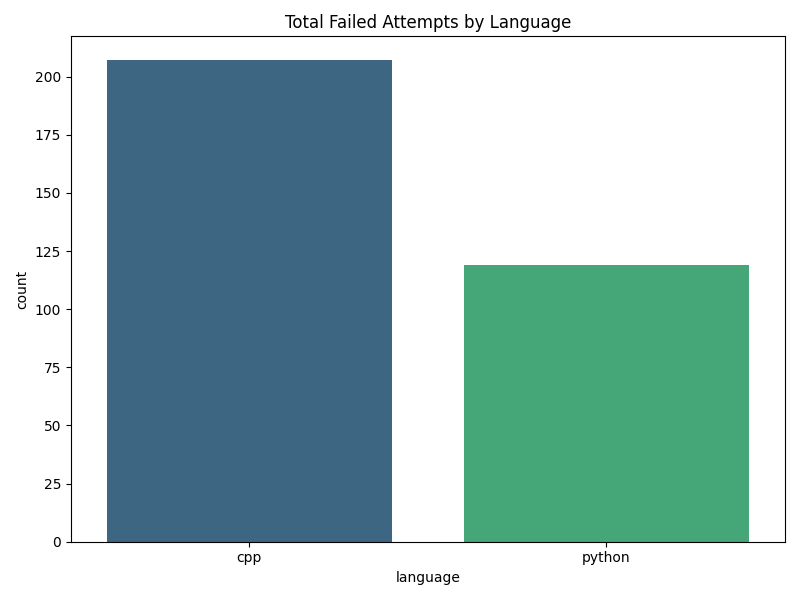
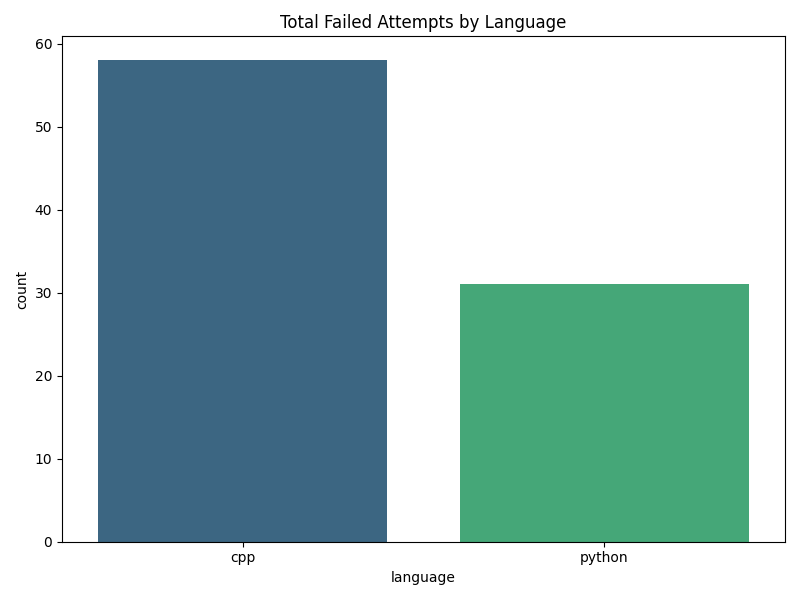
updated attemps_df duplicates and refactored graphs

diff --git a/generated_code/unittest_run_all.py b/generated_code/unittest_run_all.py
@@ -647,65 +647,57 @@ def merge_test_results(python_results_source: str, cpp_results_source) -> int:
     return merged_results
 
 def generate_attempts_dataframe(merged_results: list) -> pd.DataFrame:
-    """
-    Generates a dataframe where each row is a specific attempt at a problem.
-    """
     attempt_rows = []
 
     for problem in merged_results:
         for language in ["python", "cpp"]:
             lang_data = problem.get(language, {})
+            # Ensure we are looking at a sorted list of attempts
+            attempts = sorted(lang_data.get("attempts", []), key=lambda x: x.get("attempt_number", 0))
             
-            # Use .get() to handle cases where a language key might be missing
-            for attempt in lang_data.get("attempts", []):
+            for attempt in attempts:
                 attempt_rows.append({
                     "id": problem["id"],
                     "language": language,
                     "difficulty": problem["difficulty"],
                     "examples_count": problem["examples_count"],
                     "constraints_count": problem["constraints_count"],
-                    "loc": attempt.get("loc", 0), # Added newest data
-                    "tags": problem["tags"],
-                    
+                    # Keep tags as a list or join to a string, DO NOT EXPLODE YET
+                    "tags": problem["tags"], 
                     "attempt_number": attempt["attempt_number"],
                     "result": attempt["result"],
                     "error_type": attempt["error_type"],
-                    "passed_tests": attempt.get("passed_tests", 0) # Added newest data
+                    "passed_tests": attempt.get("passed_tests", 0),
+                    "loc": attempt.get("loc", 0)
                 })
 
+    # No .explode() here!
     attempt_df = pd.DataFrame(attempt_rows)
-    
-    if not attempt_df.empty:
-        attempt_df = attempt_df.explode("tags")
-    
     attempt_df.attrs['name'] = 'Leetcode Attempts Results'
     return attempt_df
 
 def generate_problem_dataframe(merged_results: list) -> pd.DataFrame:
-    """
-    Generates a dataframe where each row is a summary of a problem (by language).
-    """
     problem_rows = []
 
     for problem in merged_results:
         for language in ["python", "cpp"]:
             lang_data = problem.get(language, {})
-            attempts = lang_data.get("attempts", [])
+            attempts = sorted(lang_data.get("attempts", []), key=lambda x: x.get("attempt_number", 0))
 
+            # Integrity Check
             passed_count_from_list = sum(1 for a in attempts if a.get("result") == "pass")
-            stored_passed_count = lang_data.get("passed_attempts")
+            stored_passed_count = lang_data.get("passed_attempts", 0)
 
             if passed_count_from_list != stored_passed_count:
-                print(f"CRITICAL: Integrity Mismatch on Problem {problem['id']}. "
-                    f"List says {passed_count_from_list}, but summary says {stored_passed_count}")
+                print(f"Warning: Integrity Mismatch on ID {problem['id']} ({language}). "
+                      f"Calculated: {passed_count_from_list}, Stored: {stored_passed_count}")
 
-            # Logic for success calculation
-            eventually_passed = lang_data.get("passed_attempts", 0) > 0
-            
+            # Define First Try Success: Must exist, be attempt 1, and pass
             first_try_success = False
             if attempts:
-                # Assuming attempts are ordered or you want the status of the first one
-                first_try_success = (attempts[0]["result"] == "pass")
+                first_attempt = attempts[0]
+                if first_attempt.get("attempt_number") == 1 and first_attempt.get("result") == "pass":
+                    first_try_success = True
 
             problem_rows.append({
                 "id": problem["id"],
@@ -713,34 +705,59 @@ def generate_problem_dataframe(merged_results: list) -> pd.DataFrame:
                 "difficulty": problem["difficulty"],
                 "examples_count": problem["examples_count"],
                 "constraints_count": problem["constraints_count"],
-                "tags": problem["tags"],
-
-                "eventually_passed": eventually_passed,
+                "tags": problem["tags"], # Keep as list
+                "eventually_passed": stored_passed_count > 0,
                 "first_try_success": first_try_success,
-
-                # Included the newest summary data fields
                 "total_attempts": lang_data.get("total_attempts", 0),
-                "passed_attempts": lang_data.get("passed_attempts", 0),
+                "passed_attempts": stored_passed_count,
                 "failed_attempts": lang_data.get("failed_attempts", 0),
                 "total_tests": lang_data.get("total_tests", 0)
             })
 
     problems_df = pd.DataFrame(problem_rows)
-    
-    if not problems_df.empty:
-        problems_df = problems_df.explode("tags")
-    
     problems_df.attrs['name'] = 'Leetcode Problems Results'
     return problems_df
 
-def generate_summary_report(result_file_path_cpp: str, result_file_path_py: str):
+def generate_comparison_summary(attempt_df: pd.DataFrame, problems_df: pd.DataFrame, output_file="summary_comparison.csv"): 
     """
-    Generates a summary report for both C++ and Python unit tests.
+    Creates a summary table to audit data quality and performance metrics.
+    """
+    # 1. Clean the data for the audit (Remove suspected duplicates if needed)
+    # Check for duplicates before aggregating
+    # print(f"Total rows in attempt_df: {len(attempt_df)}")
+    print(f"Duplicates detected: {attempt_df.duplicated().sum()}")
 
-    This function should be implemented to compile the evaluation results from both
-    C++ and Python tests into a comprehensive summary report.
-    """
-    pass
+    # Use a working copy
+    df = attempt_df.copy()
+
+    # 2. Build the Comparison Table
+    summary = df.groupby('language').agg(
+        total_attempts=('id', 'count'),
+        unique_problems=('id', 'nunique'),
+        avg_loc=('loc', 'mean'),
+        pass_rate=('result', lambda x: (x == 'passed').mean()),
+        fail_rate=('result', lambda x: (x == 'failed').mean())
+    )
+
+    # 3. Add Problem-level metadata (optional, requires merge)
+    # This helps confirm if the number of problems matches your expected 180
+    prob_summary = problems_df.groupby('language').agg(
+        total_problems_in_catalog=('id', 'nunique'),
+        avg_eventually_passed=('eventually_passed', 'mean')
+    )
+
+    # Merge and format
+    final_summary = pd.concat([summary, prob_summary], axis=1)
+
+    # 4. Save to File
+    final_summary.to_csv(output_file)
+    print(f"\n--- Summary Table Saved to {output_file} ---")
+    print(final_summary)
+    return final_summary
+
+# --------------------------------------------------
+# Individual Plotting Functions
+# --------------------------------------------------
 
 def save_current_figure(filename: str) -> None:
     """Saves the current matplotlib figure and closes it."""
@@ -748,12 +765,7 @@ def save_current_figure(filename: str) -> None:
     plt.tight_layout()
     plt.savefig(GRAPH_OUTPUT_DIR / filename)
     plt.close()
-# --------------------------------------------------
-# Individual Plotting Functions
-# --------------------------------------------------
 
-import matplotlib.pyplot as plt
-import seaborn as sns
 # 1. Bar Graph: Measure # of failed attempts in C++ vs Python
 def plot_graph_1_failed_attempts(attempt_df: pd.DataFrame):
     failures = attempt_df[attempt_df['result'] == 'failed']
@@ -765,12 +777,26 @@ def plot_graph_1_failed_attempts(attempt_df: pd.DataFrame):
 
 # 1a. HEATMAP: Measure # of failed attempts vs passed attempts in C++ vs Python
 def plot_graph_1a_failed_vs_passed(attempt_df: pd.DataFrame):
-    # Pivot table: Index=Language, Column=Result
-    matrix = attempt_df.groupby(['language', 'result']).size().unstack(fill_value=0)
+    # 1. Update these to match your actual data (e.g., 'pass', 'failed')
+    # Use the print statement above to confirm the exact spelling
+    valid_results = ['pass', 'failed'] 
+    
+    # 2. Filter
+    df_clean = attempt_df[attempt_df['result'].isin(valid_results)].copy()
+    
+    # 3. Use countplot (it's cleaner for binary comparison)
     plt.figure(figsize=(8, 6))
-    sns.heatmap(matrix, annot=True, fmt='d', cmap='Blues', cbar_kws={'label': 'Count'})
-    plt.title("Failures vs Passed Attempts")
+    sns.countplot(
+        data=df_clean, 
+        x='language', 
+        hue='result', 
+        palette={'pass': 'green', 'failed': 'red'}
+    )
+    
+    plt.title("Performance: Pass vs. Fail Count by Language")
+    plt.ylabel("Number of Attempts")
     plt.xticks(rotation=0)
+    
     save_current_figure("graph_1a_failed_vs_passed.png")
 
 # 2b. HEATMAP: Measure # of failed attempts vs difficulty type in C++ vs Python
@@ -883,10 +909,7 @@ def main():
     print_dataframe(attempts_df, 10)
     print_dataframe(problems_df, 10)
 
-    """
-    print("Generating summary report..")
-    generate_summary_report(CPP_UNITTEST_RESULTS_FILE, PY_UNITTEST_RESULTS_FILE)
-    """
+    print("generating validation tables..")
 
     generate_graph_report(attempts_df, problems_df)
     print("Summary report generated.")
